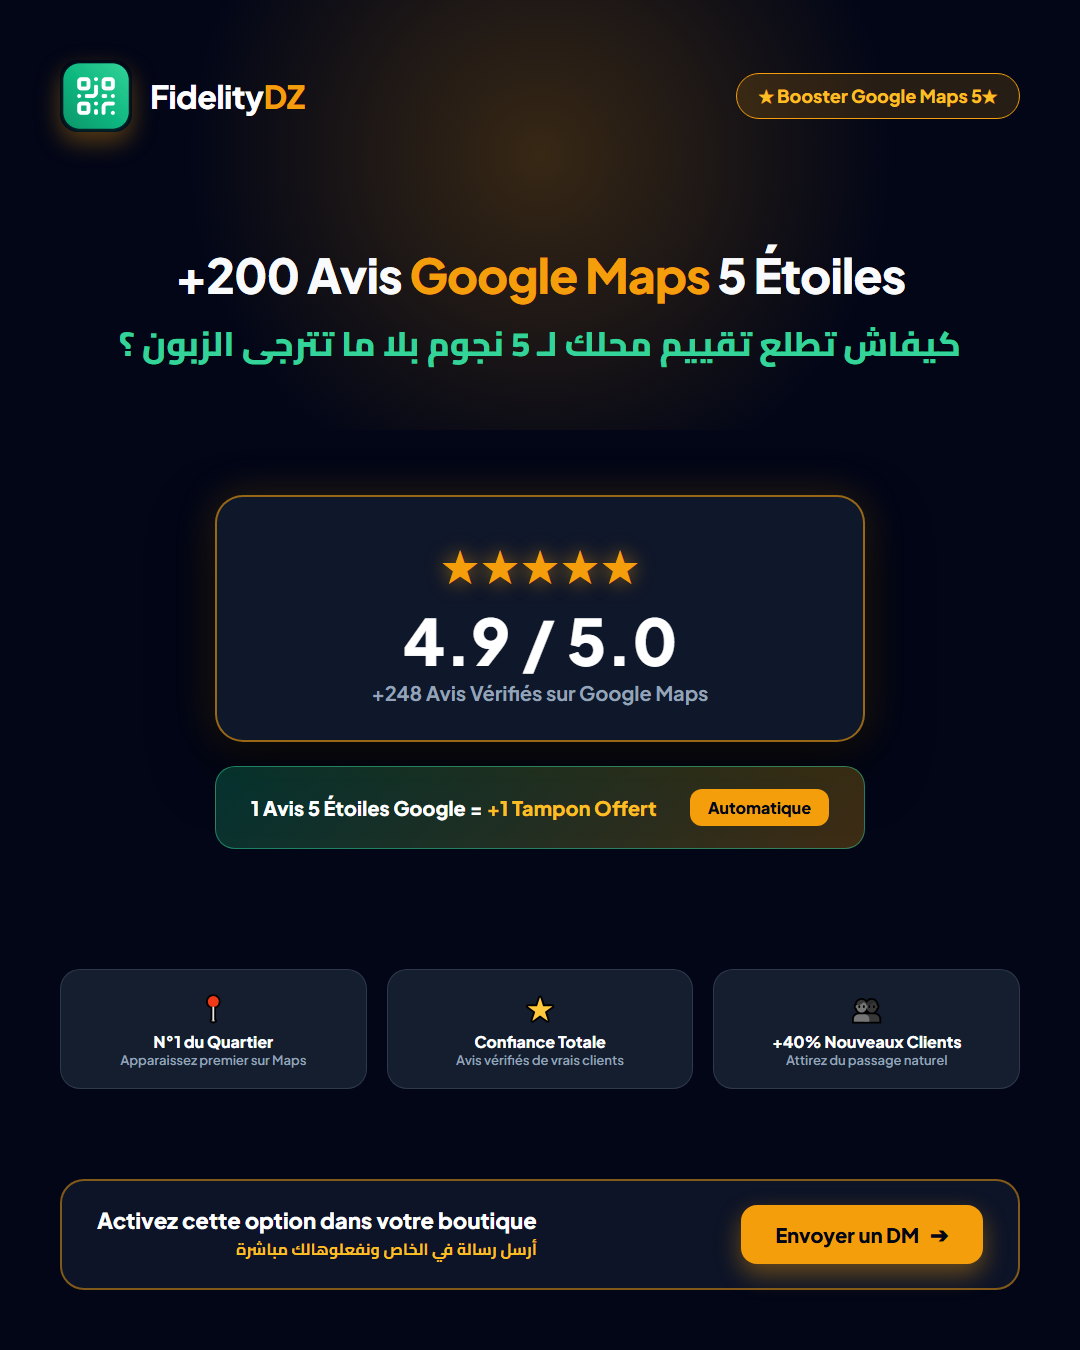
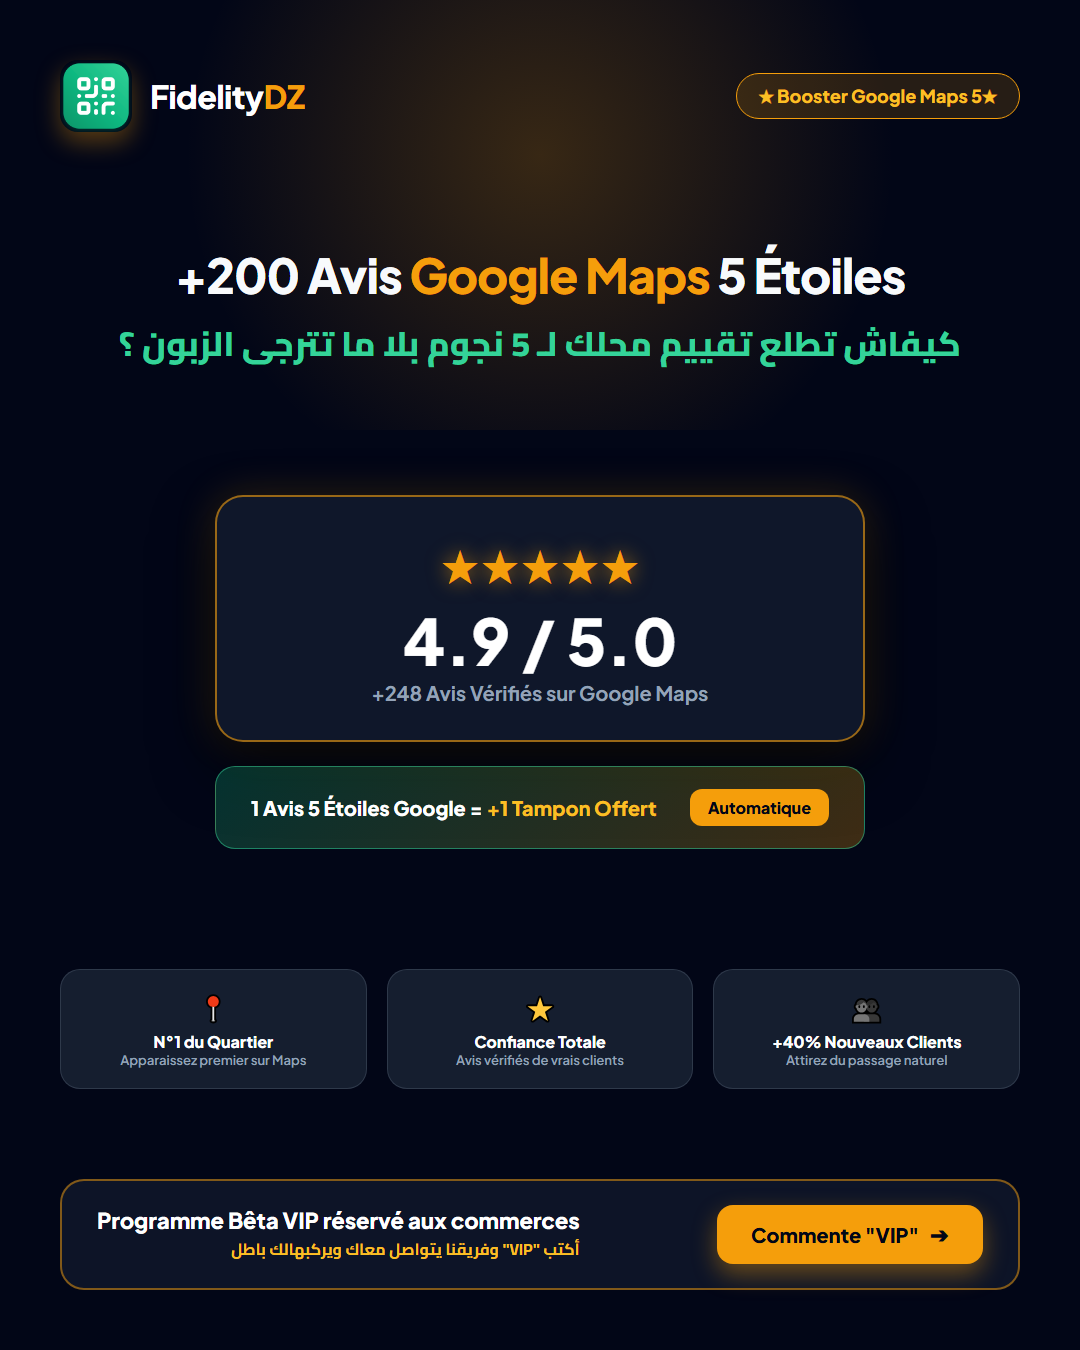
feat(instagram): optimize multi-angle comment and dm call-to-actions on marketing creatives

Changed region(s): [[0.0917, 0.9022, 0.55, 0.9333], [0.6417, 0.8711, 0.8556, 0.9644]]

diff --git a/.agents/generate_instagram_posts.py b/.agents/generate_instagram_posts.py
@@ -387,11 +387,11 @@ posts = [
   <!-- Footer CTA -->
   <div class="footer-cta">
     <div>
-      <div class="cta-text-fr">Envoyez un DM pour activer votre commerce</div>
-      <div class="cta-text-ar arabic">أرسل رسالة في الخاص (DM) لتفعيل محلك مجاناً</div>
+      <div class="cta-text-fr">Commentez "TEST" ou votre boutique</div>
+      <div class="cta-text-ar arabic">خلّي اسم محلك في تعليق وحنا نتواصلوا معاك في الخاص</div>
     </div>
     <div class="cta-button">
-      <span>Envoyer un DM</span>
+      <span>Commente "TEST"</span>
       <span>➔</span>
     </div>
   </div>
@@ -676,11 +676,11 @@ posts = [
   <!-- Footer CTA -->
   <div class="footer-cta">
     <div>
-      <div class="cta-title">Activez votre boutique</div>
-      <div class="cta-desc arabic">أرسل رسالة في الخاص لتفعيل المنصة في محلك</div>
+      <div class="cta-title">Activez votre boutique gratuitement</div>
+      <div class="cta-desc arabic">اكتب ولايتك في تعليق ونتكفلوا بكلش في محلك</div>
     </div>
     <div class="cta-btn">
-      <span>Envoyer un DM</span>
+      <span>Écris ta Wilaya</span>
       <span>➔</span>
     </div>
   </div>
@@ -930,11 +930,11 @@ posts = [
   <!-- Footer CTA -->
   <div class="footer-cta">
     <div>
-      <div class="cta-title">Activez cette option dans votre boutique</div>
-      <div class="cta-desc arabic">أرسل رسالة في الخاص ونفعلوهالك مباشرة</div>
+      <div class="cta-title">Programme Bêta VIP réservé aux commerces</div>
+      <div class="cta-desc arabic">أكتب "VIP" وفريقنا يتواصل معاك ويركبهالك باطل</div>
     </div>
     <div class="cta-btn">
-      <span>Envoyer un DM</span>
+      <span>Commente "VIP"</span>
       <span>➔</span>
     </div>
   </div>
